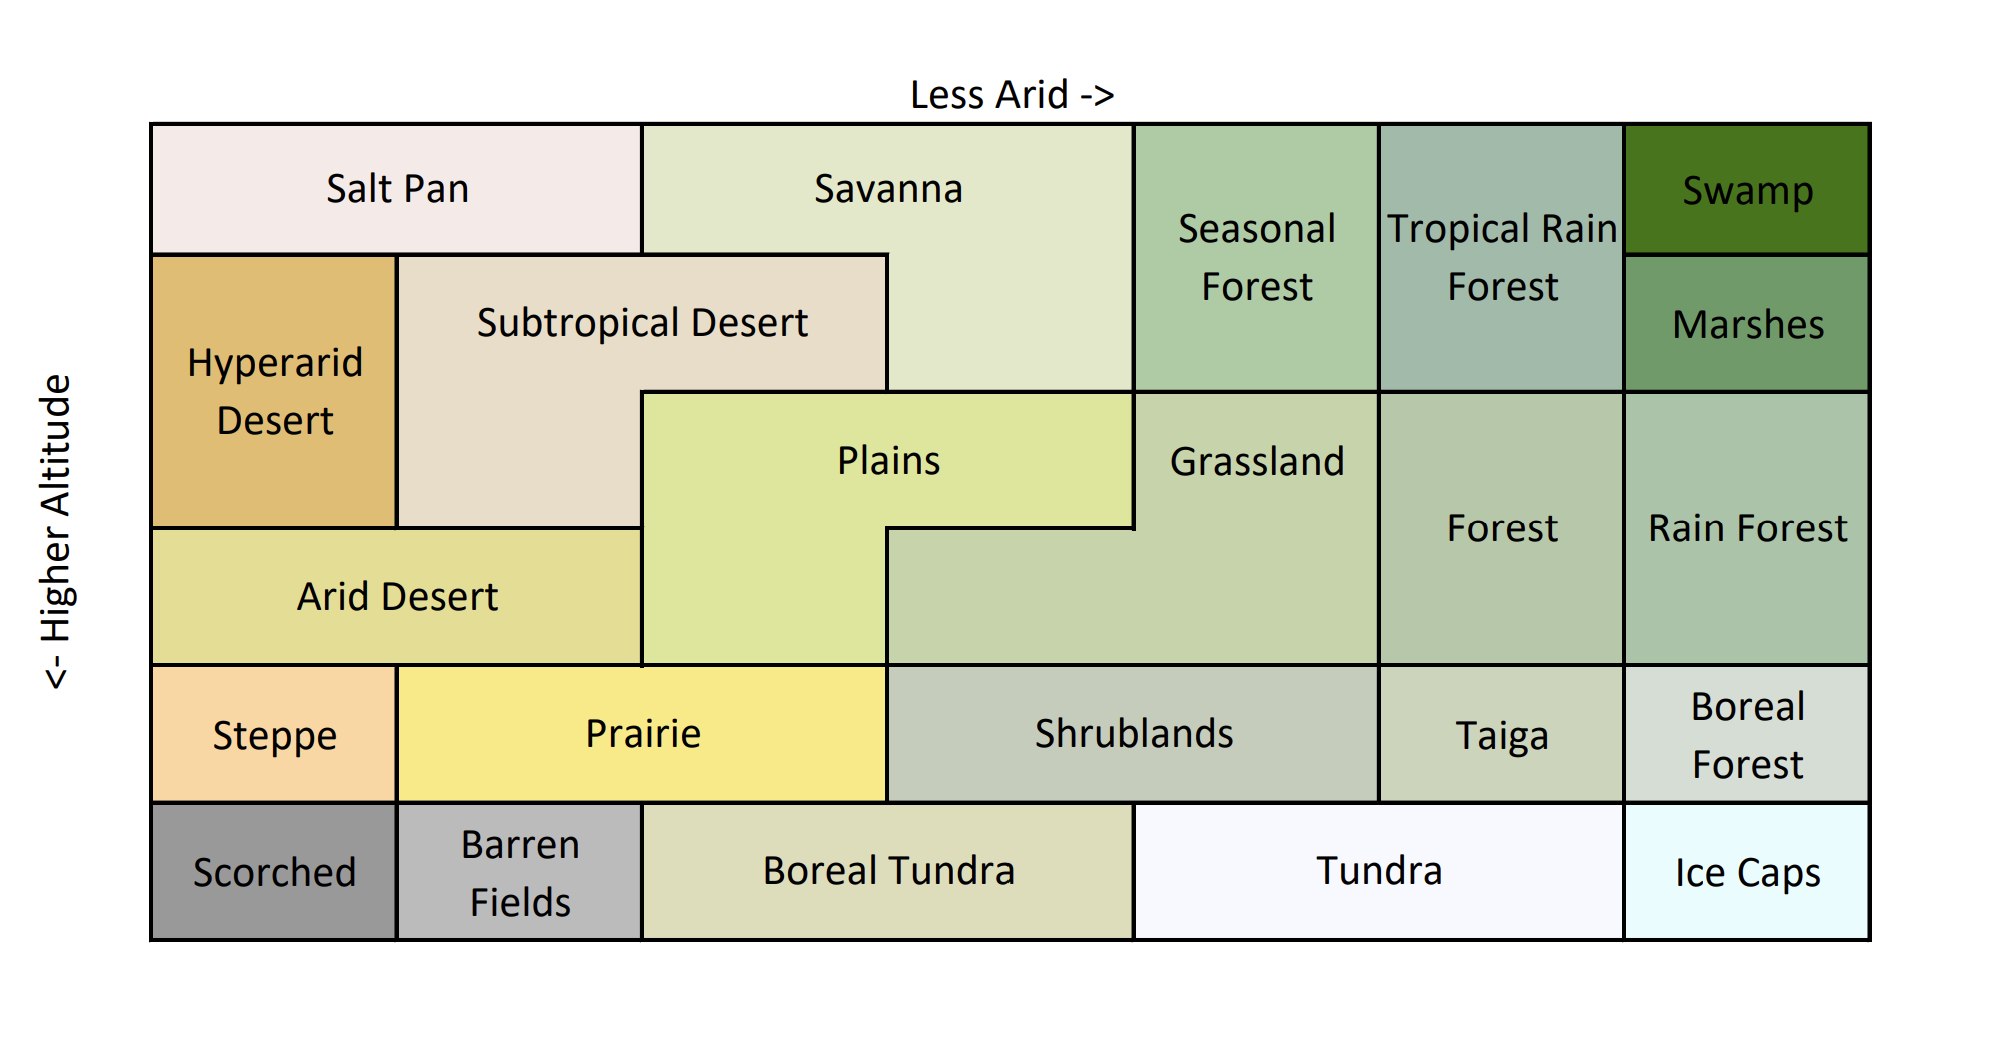
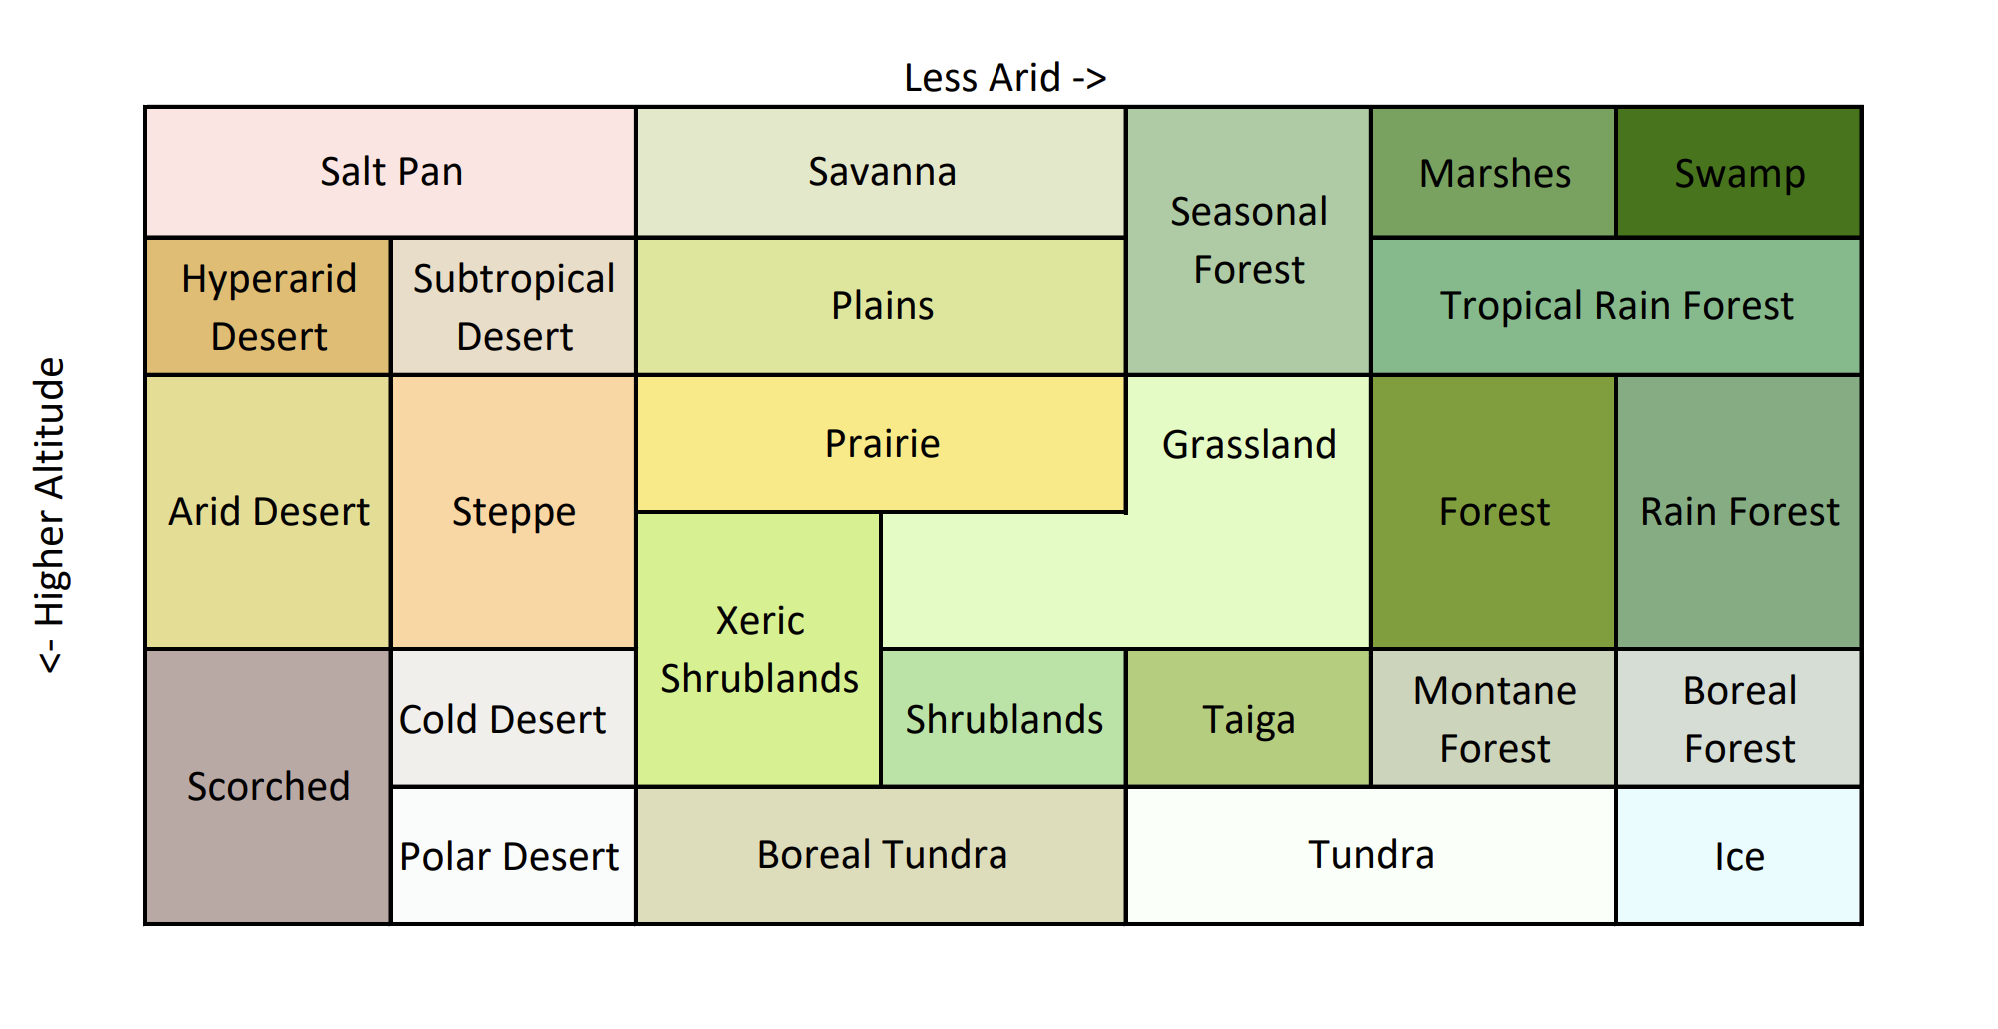
biome map changes

diff --git a/biome/biome.h b/biome/biome.h
@@ -14,35 +14,40 @@ struct biome_t
 	{}
 };
 
-static const biome_t SALT_PAN(246.0f / 255.0f, 235.0f / 255.0f, 233.0f / 255.0f, "Salt Pan");
+static const biome_t SALT_PAN(254.0f / 255.0f, 229.0f / 255.0f, 226.0f / 255.0f, "Salt Pan");
 static const biome_t SAVANNA(228.0f / 255.0f, 232.0f / 255.0f, 202.0f / 255.0f, "Savanna");
 static const biome_t SEASONAL_FOREST(169.0f / 255.0f, 204.0f / 255.0f, 164.0f / 255.0f, "Seasonal Forest");
-static const biome_t TROPICAL_RAIN_FOREST(156.0f / 255.0f, 187.0f / 255.0f, 169.0f / 255.0f, "Tropical Rain Forest");
+static const biome_t TROPICAL_RAIN_FOREST(120.0f / 255.0f, 186.0f / 255.0f, 139.0f / 255.0f, "Tropical Rain Forest");
 static const biome_t SWAMP(59.0f / 255.0f, 117.0f / 255.0f, 23.0f / 255.0f, "Swamp");
-static const biome_t MARSH(102.0f / 255.0f, 155.0f / 255.0f, 105.0f / 255.0f, "Marsh");
+static const biome_t MARSH(111.0f / 255.0f, 163.0f / 255.0f, 95.0f / 255.0f, "Marsh");
 static const biome_t HYPERARID_DESERT(230.0f / 255.0f, 189.0f / 255.0f, 114.0f / 255.0f, "Hyperarid Desert");
 static const biome_t SUBTROPICAL_DESERT(233.0f / 255.0f, 221.0f / 255.0f, 199.0f / 255.0f, "Subtropical Desert");
 static const biome_t PLAIN(221.0f / 255.0f, 230.0 / 255.0f, 154.0f / 255.0f, "Plain");
-static const biome_t GRASSLAND(196.0f / 255.0f, 212.0f / 255.0f, 170.0f / 255.0f, "Grassland");
-static const biome_t FOREST(180.0f / 255.0f, 201.0f / 255.0f, 169.0f / 255.0f, "Forest");
+static const biome_t GRASSLAND(224.0f / 255.0f, 252.0f / 255.0f, 196.0f / 255.0f, "Grassland");
+static const biome_t FOREST(123.0f / 255.0f, 159.0f / 255.0f, 59.0f / 255.0f, "Forest");
 static const biome_t RAIN_FOREST(164.0f / 255.0f, 196.0f / 255.0f, 168.0f / 255.0f, "Rain Forest");
 static const biome_t ARID_DESERT(230.0f / 255.0f, 222.0f / 255.0f, 148.0f / 255.0f, "Arid Desert");
 static const biome_t STEPPE(255.0f / 255.0f, 215.0f / 255.0f, 162.0f / 255.0f, "Steppe");
 static const biome_t PRAIRIE(252.0f / 255.0f, 235.0f / 255.0f, 132.0f / 255.0f, "Prairie");
-static const biome_t SHRUBLAND(196.0f / 255.0f, 204.0f / 255.0f, 187.0f / 255.0f, "Shrubland");
-static const biome_t TAIGA(204.0f / 255.0f, 212.0f / 255.0f, 187.0f / 255.0f, "Taiga");
+static const biome_t SHRUBLAND(178.0f / 255.0f, 227.0f / 255.0f, 165.0f / 255.0f, "Shrubland");
+static const biome_t XERIC_SHRUBLAND(211.0f / 255.0f, 241.0f / 255.0f, 143.0f / 255.0f, "Xeric Shrubland");
+static const biome_t MONTANE_FOREST(204.0f / 255.0f, 212.0f / 255.0f, 187.0f / 255.0f, "Montane Forest");
+static const biome_t TAIGA(177.0f / 255.0f, 206.0f / 255.0f, 124.0f / 255.0f, "Taiga");
 static const biome_t BOREAL_FOREST(213.0f / 255.0f, 221.0f / 255.0f, 213.0f / 255.0f, "Boreal Forest");
-static const biome_t SCORCHED(153.0f / 255.0f, 153.0f / 255.0f, 153.0f / 255.0f, "Scorched");
-static const biome_t BARREN_FIELDS(187.0f / 255.0f, 187.0f / 255.0f, 187.0f / 255.0f, "Barren Fields");
+static const biome_t SCORCHED(187.0f / 255.0f, 169.0f / 255.0f, 165.0f / 255.0f, "Scorched");
+//static const biome_t BARREN_FIELDS(187.0f / 255.0f, 187.0f / 255.0f, 187.0f / 255.0f, "Barren Fields");
 static const biome_t BOREAL_TUNDRA(221.0f / 255.0f, 221.0f / 255.0f, 187.0f / 255.0f, "Boreal Tundra");
-static const biome_t TUNDRA(248.0f / 255.0f, 248.0f / 255.0f, 255.0f / 255.0f, "Tundra");
+static const biome_t TUNDRA(249.0f / 255.0f, 255.0f / 255.0f, 249.0f / 255.0f, "Tundra");
 static const biome_t ICE_CAPS(231.0f / 255.0f, 252.0f / 255.0f, 255.0f / 255.0f, "Ice Caps");
+static const biome_t COLD_DESERT(240.0f / 255.0f, 239.0f / 255.0f, 236.0f / 255.0f, "Cold Desert");
+//static const biome_t SEA_ICE(245.0f / 255.0f, 255.0f / 255.0f, 245.0f / 255.0f, "Sea Ice");
+static const biome_t POLAR_DESERT(246.0f / 255.0f, 240.0f / 255.0f, 242.0f / 255.0f, "Polar Desert");
 
 static const biome_t biome_map[6][7] = {
-	{SALT_PAN, SALT_PAN, SAVANNA, SAVANNA, SEASONAL_FOREST, TROPICAL_RAIN_FOREST, SWAMP},
-	{HYPERARID_DESERT, SUBTROPICAL_DESERT, SUBTROPICAL_DESERT, SAVANNA, SEASONAL_FOREST, TROPICAL_RAIN_FOREST, MARSH},
-	{HYPERARID_DESERT, SUBTROPICAL_DESERT, PLAIN, PLAIN, GRASSLAND, FOREST, RAIN_FOREST},
-	{ARID_DESERT, ARID_DESERT, PLAIN, GRASSLAND, GRASSLAND, FOREST, RAIN_FOREST},
-	{STEPPE, PRAIRIE, PRAIRIE, SHRUBLAND, SHRUBLAND, TAIGA, BOREAL_FOREST},
-	{SCORCHED, BARREN_FIELDS, BOREAL_TUNDRA, BOREAL_TUNDRA, TUNDRA, TUNDRA, ICE_CAPS}
+	{SALT_PAN,			SALT_PAN,			SAVANNA,			SAVANNA,		SEASONAL_FOREST,	MARSH,					SWAMP},
+	{HYPERARID_DESERT,	SUBTROPICAL_DESERT,	PLAIN,				PLAIN,			SEASONAL_FOREST,	TROPICAL_RAIN_FOREST,	TROPICAL_RAIN_FOREST},
+	{ARID_DESERT,		STEPPE,				PRAIRIE,			PRAIRIE,		GRASSLAND,			FOREST,					RAIN_FOREST},
+	{ARID_DESERT,		STEPPE,				XERIC_SHRUBLAND,	GRASSLAND,		GRASSLAND,			FOREST,					RAIN_FOREST},
+	{SCORCHED,			COLD_DESERT,		XERIC_SHRUBLAND,	SHRUBLAND,		TAIGA,				MONTANE_FOREST,			BOREAL_FOREST},
+	{SCORCHED,			POLAR_DESERT,		BOREAL_TUNDRA,		BOREAL_TUNDRA,	TUNDRA,				TUNDRA,					ICE_CAPS}
 };

diff --git a/generator/generator.cpp b/generator/generator.cpp
@@ -382,6 +382,7 @@ void generate_world(std::vector<surface_t *> &set, std::vector<landmass_t *> &la
 
 	std::map<std::pair<polar_t, polar_t>, std::vector<surface_t *>> edge_map;
 
+	unsigned long long count = 0;
 	for (unsigned int i = 0; i < indexBuffer.size(); i += 3) {
 		std::vector<polar_t> ps = {
 			translated_vertices[indexBuffer[i]],
@@ -390,16 +391,19 @@ void generate_world(std::vector<surface_t *> &set, std::vector<landmass_t *> &la
 		surface_t *s;
 		if (ps[0][0] < ps[1][0] && ps[0][0] < ps[2][0]) {
 			s = new surface_t{
+			count,
 			ps[0],
 			ps[1],
 			ps[2] };
 		} else if (ps[1][0] < ps[0][0] && ps[1][0] < ps[2][0]) {
 			s = new surface_t{
+			count,
 			ps[1],
 			ps[2],
 			ps[0] };
 		} else {
 			s = new surface_t{
+			count,
 			ps[2],
 			ps[0],
 			ps[1] };
@@ -418,6 +422,7 @@ void generate_world(std::vector<surface_t *> &set, std::vector<landmass_t *> &la
 		else
 			edge_map[{s->a, s->c}].push_back(s);
 		set.push_back(s);
+		count++;
 	}
 
 	translated_vertices.clear();
@@ -445,9 +450,9 @@ void generate_world(std::vector<surface_t *> &set, std::vector<landmass_t *> &la
 
 	std::cout << "Setting Islands...\n";
 	begin = std::chrono::steady_clock::now();
-	for (auto i = 0; i < 16;i++) {
+	for (auto i = 0; i < 16; i++) {
 		auto origin = set[rand() % set.size()];
-		float size = ((float)rand() / (float)RAND_MAX) * 0.5f;
+		float size = ((float)rand() / (float)RAND_MAX) * 0.4f + 0.1f;
 		for (auto &e : set) {
 			if (true_dist(origin, e) < size)
 				iterate_land(e, ISLAND_BRANCHING_SIZE);
@@ -470,7 +475,7 @@ void generate_world(std::vector<surface_t *> &set, std::vector<landmass_t *> &la
 			p.get(p.get((cc[0] + 1.0f) / 16.0f, (cc[1] + 1.0f) / 16.0f, 4.0f, 4), (cc[2] + 1.0f) / 16.0f, 4.0f, 4) +
 			p.get(p.get((cc[0] + 1.0f) / 8.0f, (cc[1] + 1.0f) / 8.0f, 8.0f, 4), (cc[2] + 1.0f) / 8.0f, 8.0f, 4) +
 			p.get(p.get((cc[0] + 1.0f) / 4.0f, (cc[1] + 1.0f) / 4.0f, 16.0f, 4), (cc[2] + 1.0f) / 4.0f, 16.0f, 4);
-		f->height = (n.second + MAX(0, pm / 4.0f - 0.25f)) * HEIGHT_MULTIPLIER;
+		f->height = (n.second * 1.8f + MAX(0, pm / 5.0f - 0.25f)) * HEIGHT_MULTIPLIER;
 	}
 	end = std::chrono::steady_clock::now();
 	std::cout << "Elapsed: "
@@ -533,7 +538,13 @@ void generate_world(std::vector<surface_t *> &set, std::vector<landmass_t *> &la
 		if (f->type != surface_t::FACE_LAND)
 			continue;
 		std::pair<surface_t *, float> n = find_nearest_lake(f, set);
-		f->aridity = n.second * ARIDITY_MULTIPLIER;
+		point3_t cc = f->get_center_c();
+		float pm =
+			p.get(p.get((cc[0] + 101.0f) / 32.0f, (cc[1] + 101.0f) / 32.0f, 2.0f, 4), (cc[2] + 101.0f) / 32.0f, 2.0f, 4) +
+			p.get(p.get((cc[0] + 101.0f) / 16.0f, (cc[1] + 101.0f) / 16.0f, 4.0f, 4), (cc[2] + 101.0f) / 16.0f, 4.0f, 4) +
+			p.get(p.get((cc[0] + 101.0f) / 8.0f, (cc[1] + 101.0f) / 8.0f, 8.0f, 4), (cc[2] + 101.0f) / 8.0f, 8.0f, 4) +
+			p.get(p.get((cc[0] + 101.0f) / 4.0f, (cc[1] + 101.0f) / 4.0f, 16.0f, 4), (cc[2] + 101.0f) / 4.0f, 16.0f, 4);
+		f->aridity = (n.second * 1.8f + MAX(0, pm / 5.0f - 0.25f)) * ARIDITY_MULTIPLIER;
 	}
 	end = std::chrono::steady_clock::now();
 	std::cout << "Elapsed: "

diff --git a/engine/engine.cpp b/engine/engine.cpp
@@ -5,6 +5,8 @@
 #include <glm/mat3x3.hpp>
 #include <comdef.h>
 #endif
+#include <fstream>
+#include <bits/stdc++.h>
 
 enum Mode
 {
@@ -427,6 +429,22 @@ void engine::user_input()
 				}
 			case SDL_KEYDOWN:
 				switch (evnt.key.keysym.scancode) {
+					case SDL_SCANCODE_O: {
+						std::cout << "FILENAME: ";
+						std::string fname;
+						std::getline(std::cin, fname);
+						serialize(fname);
+						std::cout << "SAVED.";
+						break;
+					}
+					case SDL_SCANCODE_I: {
+						std::cout << "FILENAME: ";
+						std::string fname;
+						std::getline(std::cin, fname);
+						load_file(fname);
+						std::cout << "LOADED.";
+						break;
+					}
 					case SDL_SCANCODE_1:
 						mode = MODE_LANDMASS;
 						break;
@@ -441,9 +459,6 @@ void engine::user_input()
 						break;
 					case SDL_SCANCODE_TAB:
 						projection = (projection_t)((projection + 1) % 2);
-						break;
-					case SDL_SCANCODE_ESCAPE:
-						_windowState = windowState::EXIT;
 						break;
 					default:
 						break;
@@ -539,4 +554,88 @@ void engine::fps_counter()
 	}
 
 	currentFrame++;
+}
+
+void engine::serialize(const std::string &filename)
+{
+	std::ofstream file(filename);
+	for (auto &s : _set) {
+		file << s->ID << "\t" << s->type << "\t" << s->height << "\t" << s->aridity << "\t" << s->foehn << "\t" << s->a[0] << "\t" << s->a[1] << "\t" << s->b[0] << "\t" << s->b[1] << "\t" << s->c[0] << "\t" << s->c[1];
+		for (auto &n : s->neighbors){
+			file << "\t" << n->ID;
+		}
+		file << "\n";
+	}
+	file.close();
+}
+
+void engine::load_file(const std::string &filename)
+{
+	for (auto &e : _set)
+		delete e;
+	for (auto &e : landmasses)
+		delete e;
+	_set.clear();
+	landmasses.clear();
+
+	std::vector<std::pair<surface_t*, std::vector<std::string>>> parsed;
+
+	std::ifstream file(filename);
+	std::string line;
+	while (std::getline(file, line)) {
+		std::vector<std::string> data_set;
+		std::stringstream data(line);
+		std::string token;
+		while (getline(data, token, '\t')){
+			data_set.push_back(token);
+		}
+
+		polar_t a(
+			std::stof(data_set[5]),
+			std::stof(data_set[6])
+		);
+		polar_t b(
+			std::stof(data_set[7]),
+			std::stof(data_set[8])
+		);
+		polar_t c(
+			std::stof(data_set[9]),
+			std::stof(data_set[10])
+		);
+
+		surface_t * s = new surface_t(
+			std::stoull(data_set[0]),
+			a, b, c
+		);
+
+		s->type = (surface_t::surface_type)std::stoi(data_set[1]);
+		s->height = std::stof(data_set[2]);
+		s->aridity = std::stof(data_set[3]);
+		s->foehn = std::stof(data_set[4]);
+
+		data_set.erase(data_set.begin(), data_set.begin() + 11);
+
+		parsed.push_back({s, data_set});
+	}
+
+	for (auto &e : parsed) {
+		for (auto &n : e.second) {
+			e.first->neighbors.push_back(parsed[std::stoull(n)].first);
+		}
+		_set.push_back(e.first);
+	}
+
+	for (auto &s : _set) {
+		if (s->landmass == NULL) {
+			landmass_t *l = new landmass_t{
+				(float)rand() / (float)RAND_MAX,
+				(float)rand() / (float)RAND_MAX,
+				(float)rand() / (float)RAND_MAX
+			};
+			s->landmass = l;
+			landmasses.push_back(l);
+			l->members.push_back(s);
+			make_landmasses(s);
+		}
+	}
 }

diff --git a/surface/surface.cpp b/surface/surface.cpp
@@ -1,7 +1,8 @@
 #include "surface.h"
 
-surface_t::surface_t(const polar_t &a, const polar_t &b, const polar_t &c)
-	: a{ a }
+surface_t::surface_t(const unsigned long long &ID, const polar_t &a, const polar_t &b, const polar_t &c)
+	: ID{ ID }
+	, a{ a }
 	, b{ b }
 	, c{ c }
 {
@@ -35,8 +36,8 @@ void surface_t::set_center()
 
 const biome_t surface_t::get_biome() const
 {
-	int _height = CLAMP(height * 6.0f, 0.0f, 5.0f);
-	int _aridity = CLAMP(aridity * 5.0f + foehn, 0.0f, 6.0f);
+	int _height = CLAMP((int)(height * 6.0f), 0, 5);
+	int _aridity = CLAMP((int)(aridity * 7.0f + foehn - 0.25f), 0, 6);
 	return biome_map[_height][6 - _aridity];
 }
 

diff --git a/surface/surface.h b/surface/surface.h
@@ -11,6 +11,8 @@ struct landmass_t;
 
 struct surface_t
 {
+	const unsigned long long ID;
+
 	const polar_t a;
 	const polar_t b;
 	const polar_t c;
@@ -33,7 +35,7 @@ struct surface_t
 
 	landmass_t * landmass = NULL;
 
-	surface_t(const polar_t &, const polar_t &, const polar_t &);
+	surface_t(const unsigned long long &ID, const polar_t &, const polar_t &, const polar_t &);
 	const bool operator==(const surface_t &);
 	const bool operator<(const surface_t &);
 	const polar_t get_center() const;

diff --git a/generator/generator.h b/generator/generator.h
@@ -2,9 +2,9 @@
 
 /* -------- OPTIONS --------- */
 
-#define HEIGHT_MULTIPLIER		1.5f
-#define ARIDITY_MULTIPLIER		3.5f
-#define INLAND_LAKE_SIZE		64
+#define HEIGHT_MULTIPLIER		1.0f
+#define ARIDITY_MULTIPLIER		1.0f
+#define INLAND_LAKE_SIZE		32
 #define ISLAND_BRANCHING_SIZE	16
 #define FACE_SIZE				2
 

diff --git a/engine/engine.h b/engine/engine.h
@@ -53,6 +53,9 @@ private:
     void engine_loop();
     void fps_counter();
 
+    void serialize(const std::string &filename);
+    void load_file(const std::string &filename);
+
     SDL_Window *_window;
     SDL_GLContext glContext;
     double _screenWidth;
